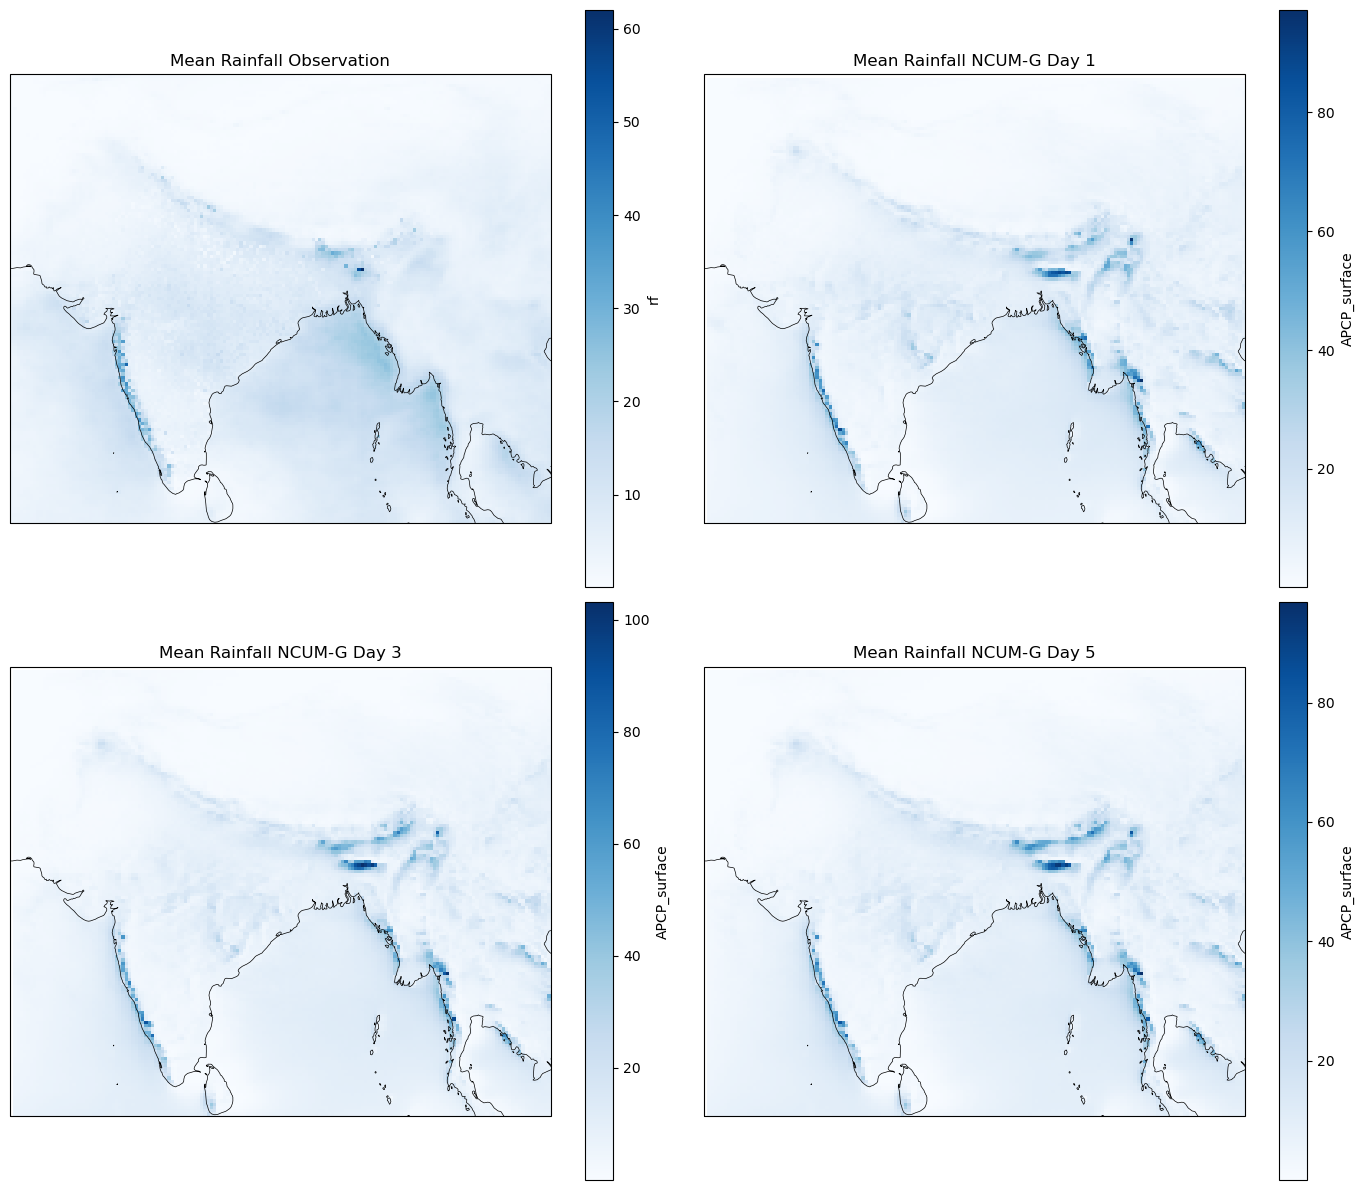
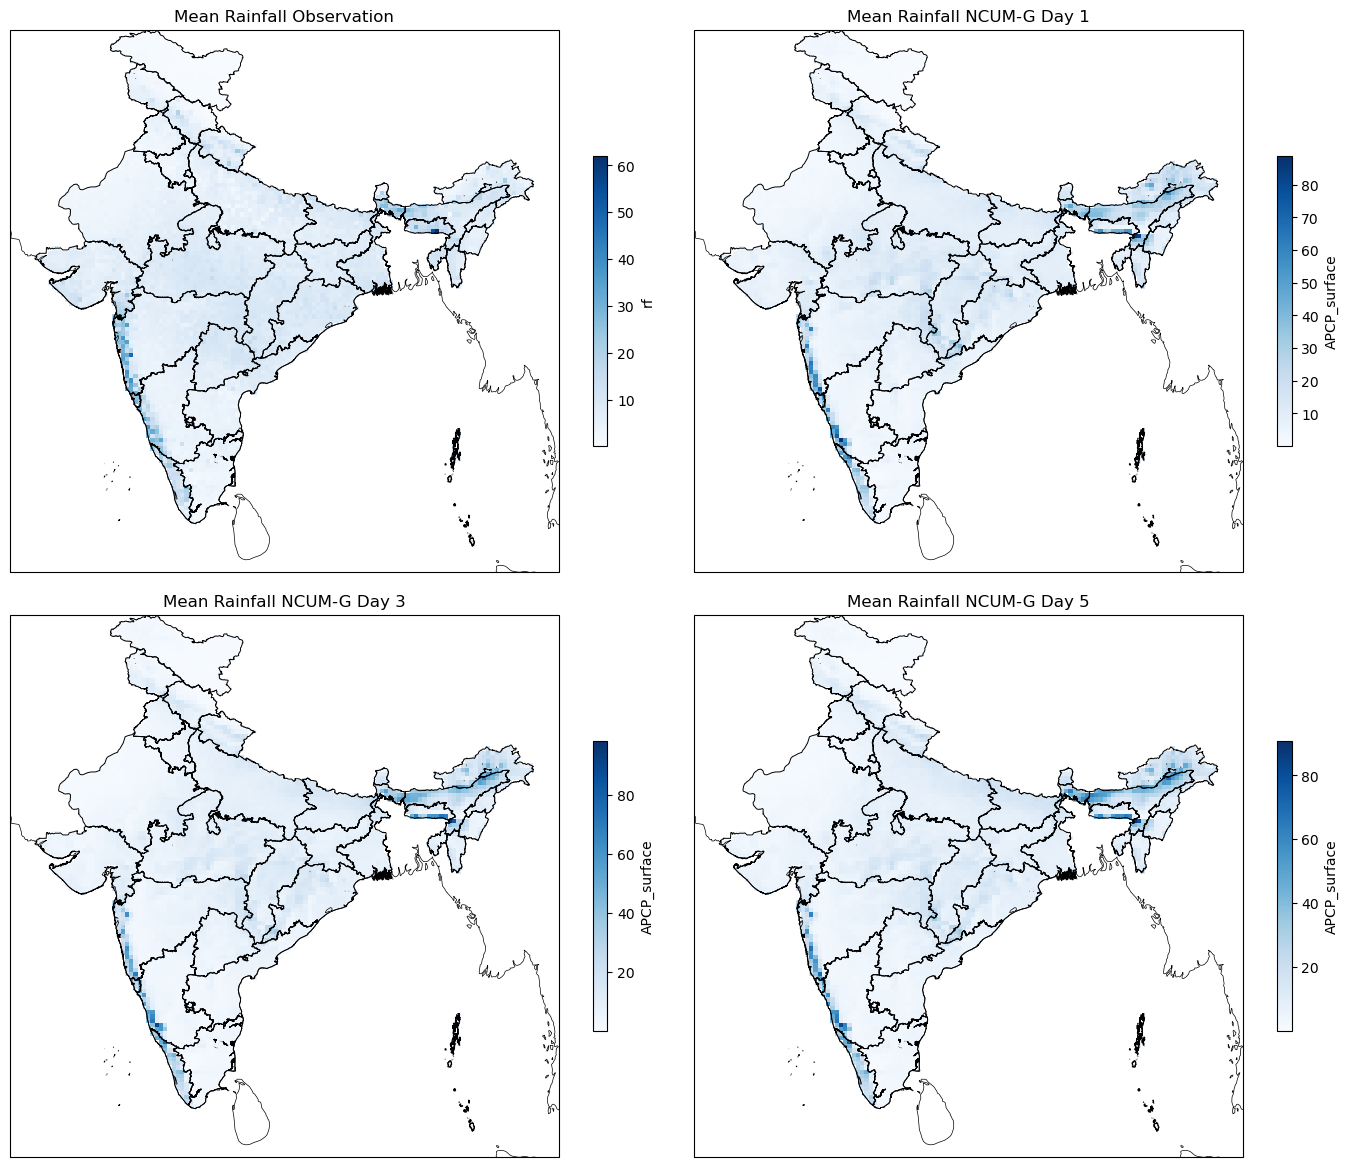
adjusted with shapefile

diff --git a/Mean_rainfall.py b/Mean_rainfall.py
@@ -7,6 +7,9 @@ import dask.array as da
 import cartopy.crs as ccrs
 import cartopy.feature as cfeature
 import matplotlib.colors as mcolors
+import geopandas as gpd
+import rioxarray
+from shapely.geometry import mapping
 
 #load data
 obs = xr.open_dataset('e:\\Dissertation\\data\\IMD_MSG-2020-24-jjas.nc', )
@@ -50,50 +53,50 @@ ncum_g_5_mean = ncum_g_5_regridded.mean(dim='time')
 #ncum_r_1_mean = ncum_r_1_regridded.mean(dim='time')
 #ncum_r_3_mean = ncum_r_3_regridded.mean(dim='time')
 #ncum_r_5_mean = ncum_r_5_regridded.mean(dim='time')
-'''
-#plot
-fig, axes = plt.subplots(2, 2, figsize=(15, 10), subplot_kw={'projection': '3d'})
 
-obs_mean['rf'].plot(ax=axes[0, 0], cmap='viridis')
-axes[0, 0].set_title('Observed Mean Rainfall')
+# Shapefile
+shapefile_path = "e:\\Dissertation\\data\\SHP&DEM\\shp\\India_State_Boundary_02may2020.shp"
+shape = gpd.read_file(shapefile_path)
+#shape = shape.to_crs(epsg=4326)
 
-ncum_g_1_mean['APCP_Surface'].plot(ax=axes[0, 1], cmap='viridis')
-axes[0, 1].set_title('NCUM G Day 1 Mean Rainfall')
+obs_mean = obs_mean.rio.write_crs("EPSG:4326").rio.clip(shape.geometry.apply(mapping), shape.crs)
+ncum_g_1_mean = ncum_g_1_mean.rio.write_crs("EPSG:4326").rio.clip(shape.geometry.apply(mapping), shape.crs)
+ncum_g_3_mean = ncum_g_3_mean.rio.write_crs("EPSG:4326").rio.clip(shape.geometry.apply(mapping), shape.crs)
+ncum_g_5_mean = ncum_g_5_mean.rio.write_crs("EPSG:4326").rio.clip(shape.geometry.apply(mapping), shape.crs)
 
-ncum_g_3_mean['APCP_Surface'].plot(ax=axes[1, 0], cmap='viridis')
-axes[1, 0].set_title('NCUM G Day 3 Mean Rainfall')
-
-ncum_g_5_mean['APCP_Surface'].plot(ax=axes[1, 1], cmap='viridis')
-axes[1, 1].set_title('NCUM G Day 5 Mean Rainfall')
-
-plt.tight_layout()
-plt.show()
-'''
 plt.figure(figsize=(14, 12))
 
 # Plot for Observed Mean Rainfall
 ax1 = plt.subplot(2, 2, 1, projection=ccrs.PlateCarree())
-obs_mean['rf'].plot(ax=ax1, cmap='Blues', transform=ccrs.PlateCarree())
+obs_mean['rf'].plot(ax=ax1, cmap='Blues', transform=ccrs.PlateCarree(),cbar_kwargs={'shrink': 0.5}
+)
 ax1.add_feature(cfeature.COASTLINE, linewidth=0.5)
-ax1.set_title('Mean Rainfall Observation')
+shape.boundary.plot(ax=ax1, edgecolor='black', linewidth=0.7, transform=ccrs.PlateCarree())
+ax1.set_title('Mean Rainfall Observation', fontsize=12)
 
 # Plot for NCUM-G Day 1 Mean Rainfall
 ax2 = plt.subplot(2, 2, 2, projection=ccrs.PlateCarree())
-ncum_g_1_mean['APCP_surface'].plot(ax=ax2, cmap='Blues', transform=ccrs.PlateCarree())
+ncum_g_1_mean['APCP_surface'].plot(ax=ax2, cmap='Blues', transform=ccrs.PlateCarree(),cbar_kwargs={'shrink': 0.5}
+)
 ax2.add_feature(cfeature.COASTLINE, linewidth=0.5)
-ax2.set_title('Mean Rainfall NCUM-G Day 1')
+shape.boundary.plot(ax=ax2, edgecolor='black', linewidth=0.7, transform=ccrs.PlateCarree())
+ax2.set_title('Mean Rainfall NCUM-G Day 1', fontsize=12)
 
 # Plot for NCUM-G Day 3 Mean Rainfall
 ax3 = plt.subplot(2, 2, 3, projection=ccrs.PlateCarree())
-ncum_g_3_mean['APCP_surface'].plot(ax=ax3, cmap='Blues', transform=ccrs.PlateCarree())
+ncum_g_3_mean['APCP_surface'].plot(ax=ax3, cmap='Blues', transform=ccrs.PlateCarree(),cbar_kwargs={'shrink': 0.5}
+)
 ax3.add_feature(cfeature.COASTLINE, linewidth=0.5)
-ax3.set_title('Mean Rainfall NCUM-G Day 3')
+shape.boundary.plot(ax=ax3, edgecolor='black', linewidth=0.7, transform=ccrs.PlateCarree())
+ax3.set_title('Mean Rainfall NCUM-G Day 3', fontsize=12)
 
 # Plot for NCUM-G Day 5 Mean Rainfall
 ax4 = plt.subplot(2, 2, 4, projection=ccrs.PlateCarree())
-ncum_g_5_mean['APCP_surface'].plot(ax=ax4, cmap='Blues', transform=ccrs.PlateCarree())
+ncum_g_5_mean['APCP_surface'].plot(ax=ax4, cmap='Blues', transform=ccrs.PlateCarree(),cbar_kwargs={'shrink': 0.5}
+)
 ax4.add_feature(cfeature.COASTLINE, linewidth=0.5)
-ax4.set_title('Mean Rainfall NCUM-G Day 5')
+shape.boundary.plot(ax=ax4, edgecolor='black', linewidth=0.7, transform=ccrs.PlateCarree())
+ax4.set_title('Mean Rainfall NCUM-G Day 5', fontsize=12)
 
 plt.tight_layout()
 plt.show()

diff --git a/ncum-g-bias.py b/ncum-g-bias.py
@@ -6,6 +6,10 @@ import matplotlib.dates as mdates
 import cartopy.crs as ccrs
 import cartopy.feature as cfeature
 import matplotlib.colors as mcolors
+import geopandas as gpd
+import rioxarray
+from shapely.geometry import mapping
+
 
 #load data
 ncum_g_1 = xr.open_dataset('e:\\Dissertation\\data\\ncumg_day1rf_jjas2020-24.nc')
@@ -33,6 +37,16 @@ mean_ncum_g_1 = ncum_g_1_regridded['APCP_surface'].mean(dim='time')
 mean_ncum_g_3 = ncum_g_3_regridded['APCP_surface'].mean(dim='time')
 mean_ncum_g_5 = ncum_g_5_regridded['APCP_surface'].mean(dim='time')
 
+# Shapefile
+shapefile_path = "e:\\Dissertation\\data\\SHP&DEM\\shp\\India_State_Boundary_02may2020.shp"
+shape = gpd.read_file(shapefile_path)
+#shape = shape.to_crs(epsg=4326)
+
+mean_obs = mean_obs.rio.write_crs("EPSG:4326").rio.clip(shape.geometry.apply(mapping), shape.crs)
+mean_ncum_g_1 = mean_ncum_g_1.rio.write_crs("EPSG:4326").rio.clip(shape.geometry.apply(mapping), shape.crs)
+mean_ncum_g_3 = mean_ncum_g_3.rio.write_crs("EPSG:4326").rio.clip(shape.geometry.apply(mapping), shape.crs)
+mean_ncum_g_5 = mean_ncum_g_5.rio.write_crs("EPSG:4326").rio.clip(shape.geometry.apply(mapping), shape.crs)
+
 # biases
 bias_ncum_g_1 = mean_ncum_g_1 - mean_obs
 bias_ncum_g_3 = mean_ncum_g_3 - mean_obs
@@ -46,19 +60,22 @@ norm = mcolors.BoundaryNorm(levels, cmap.N)
 
 plt.figure(figsize=(14, 6))
 ax1 = plt.subplot(1, 3, 1, projection=ccrs.PlateCarree())
-bias_ncum_g_1.plot(ax=ax1, cmap=cmap, norm=norm)
+bias_ncum_g_1.plot(ax=ax1, cmap=cmap, norm=norm, cbar_kwargs={'label': 'Bias (mm)', 'shrink': 0.5})
+shape.boundary.plot(ax=ax1, edgecolor='black', linewidth=0.7, transform=ccrs.PlateCarree())
 ax1.add_feature(cfeature.COASTLINE, linewidth=0.5)
-ax1.set_title('Mean Rainfall Bias NCUM-G_day_1')
+ax1.set_title('Mean Rainfall Bias NCUM-G_day_1', fontsize=12)
 
 ax2 = plt.subplot(1, 3, 2, projection=ccrs.PlateCarree())
-bias_ncum_g_3.plot(ax=ax2, cmap=cmap, norm=norm)
+bias_ncum_g_3.plot(ax=ax2, cmap=cmap, norm=norm, cbar_kwargs={'label': 'Bias (mm)', 'shrink': 0.5})
+shape.boundary.plot(ax=ax2, edgecolor='black', linewidth=0.7, transform=ccrs.PlateCarree())
 ax2.add_feature(cfeature.COASTLINE, linewidth=0.5)
-ax2.set_title('Mean Rainfall Bias NCUM-G_day_3')
+ax2.set_title('Mean Rainfall Bias NCUM-G_day_3', fontsize=12)
 
 ax3 = plt.subplot(1, 3, 3, projection=ccrs.PlateCarree())
-bias_ncum_g_5.plot(ax=ax3, cmap=cmap, norm=norm, cbar_kwargs={'label': 'Bias (mm)'})
+bias_ncum_g_5.plot(ax=ax3, cmap=cmap, norm=norm, cbar_kwargs={'label': 'Bias (mm)', 'shrink': 0.5})
+shape.boundary.plot(ax=ax3, edgecolor='black', linewidth=0.7, transform=ccrs.PlateCarree())
 ax3.add_feature(cfeature.COASTLINE, linewidth=0.5)
-ax3.set_title('Mean Rainfall Bias NCUM-G_day_5')
+ax3.set_title('Mean Rainfall Bias NCUM-G_day_5', fontsize=12)
 
 plt.tight_layout()
 plt.tight_layout()

diff --git a/var.py b/var.py
@@ -4,6 +4,9 @@ import matplotlib.pyplot as plt
 import pandas as pd
 import matplotlib.dates as mdates
 import dask.array as da
+import geopandas as gpd
+import rioxarray
+from shapely.geometry import mapping
 
 #load data
 obs = xr.open_dataset('e:\\Dissertation\\data\\IMD_MSG-2020-24-jjas.nc', )
@@ -38,6 +41,16 @@ ncum_g_5_regridded = ncum_g_5_regridded.sel(lat=slice(6, 41), lon=slice(65, 106)
 #ncum_r_1_regridded = ncum_r_1_regridded.sel(lat=slice(6, 41), lon=slice(65, 106))
 #ncum_r_1_regridded = ncum_r_1_regridded.sel(lat=slice(6, 41), lon=slice(65, 106))
 #ncum_r_1_regridded = ncum_r_1_regridded.sel(lat=slice(6, 41), lon=slice(65, 106))
+
+# Shapefile
+shapefile_path = "e:\\Dissertation\\data\\SHP&DEM\\shp\\India_State_Boundary_02may2020.shp"
+shape = gpd.read_file(shapefile_path)
+#shape = shape.to_crs(epsg=4326)
+
+obs = obs.rio.write_crs("EPSG:4326").rio.clip(shape.geometry.apply(mapping), shape.crs)
+ncum_g_1_regridded = ncum_g_1_regridded.rio.write_crs("EPSG:4326").rio.clip(shape.geometry.apply(mapping), shape.crs)
+ncum_g_3_regridded = ncum_g_3_regridded.rio.write_crs("EPSG:4326").rio.clip(shape.geometry.apply(mapping), shape.crs)
+ncum_g_5_regridded = ncum_g_5_regridded.rio.write_crs("EPSG:4326").rio.clip(shape.geometry.apply(mapping), shape.crs)
 
 #proper date format
 obs['time'] = pd.to_datetime(obs['time'].values)
@@ -78,10 +91,10 @@ data_variances = [
     #(ncum_r_5_variance, 'NCUM-R 4km to 10Km (day 5 forecast)')
 ]
 
-
-plt.plot(ncum_g_1_variance['dayofyear'], ncum_g_1_variance, label="NCUM-G 12Km to 10Km (day 1 forecast)")
-plt.plot(ncum_g_1_variance['dayofyear'], ncum_g_3_variance, label="NCUM-G 12Km to 10Km (day 1 forecast)")
-plt.plot(ncum_g_1_variance['dayofyear'], ncum_g_5_variance, label="NCUM-G 12Km to 10Km (day 1 forecast)")
+plt.plot(ncum_g_1_variance['dayofyear'], obs_variance, label="Observed data 10Km",color = "black")
+plt.plot(ncum_g_1_variance['dayofyear'], ncum_g_1_variance, label="NCUM-G 12Km to 10Km (day 1 forecast)",color = "red")
+plt.plot(ncum_g_1_variance['dayofyear'], ncum_g_3_variance, label="NCUM-G 12Km to 10Km (day 3 forecast)",color = "blue")
+plt.plot(ncum_g_1_variance['dayofyear'], ncum_g_5_variance, label="NCUM-G 12Km to 10Km (day 5 forecast)",color = "green")
 plt.xlabel('Time')
 plt.gca().xaxis.set_major_locator(mdates.MonthLocator(bymonthday=1))
 plt.gca().xaxis.set_major_formatter(mdates.DateFormatter('%B'))
